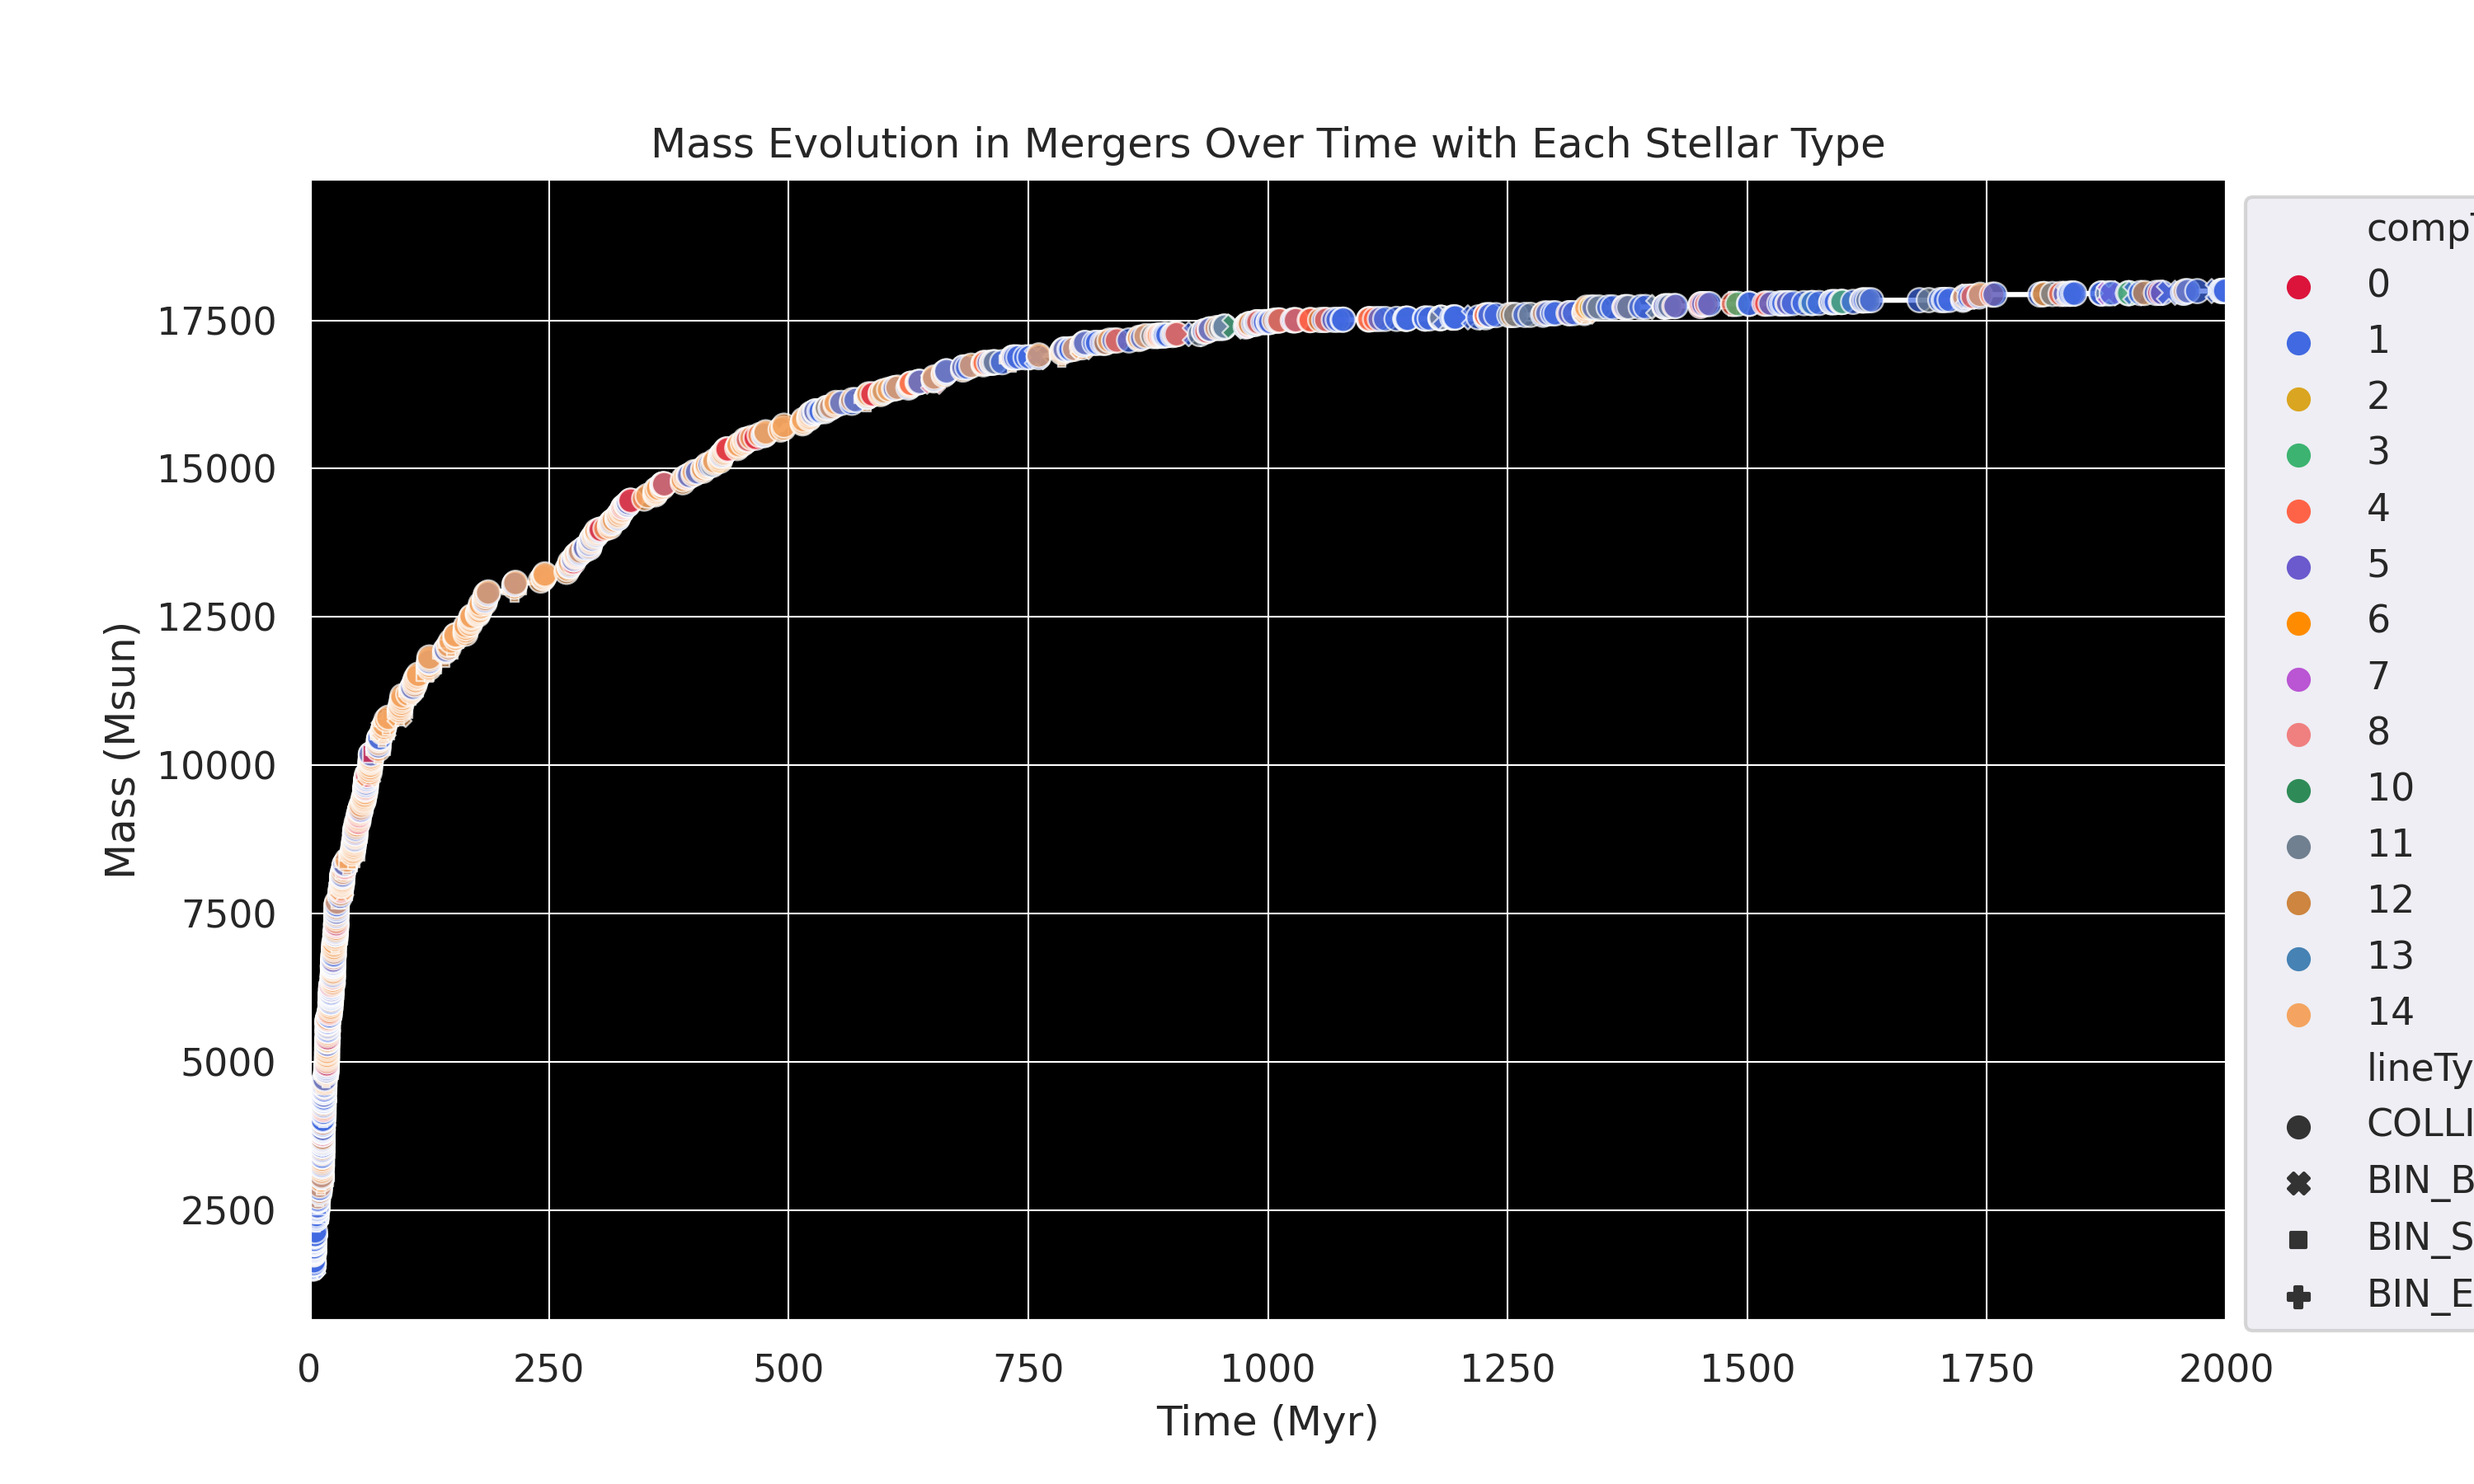
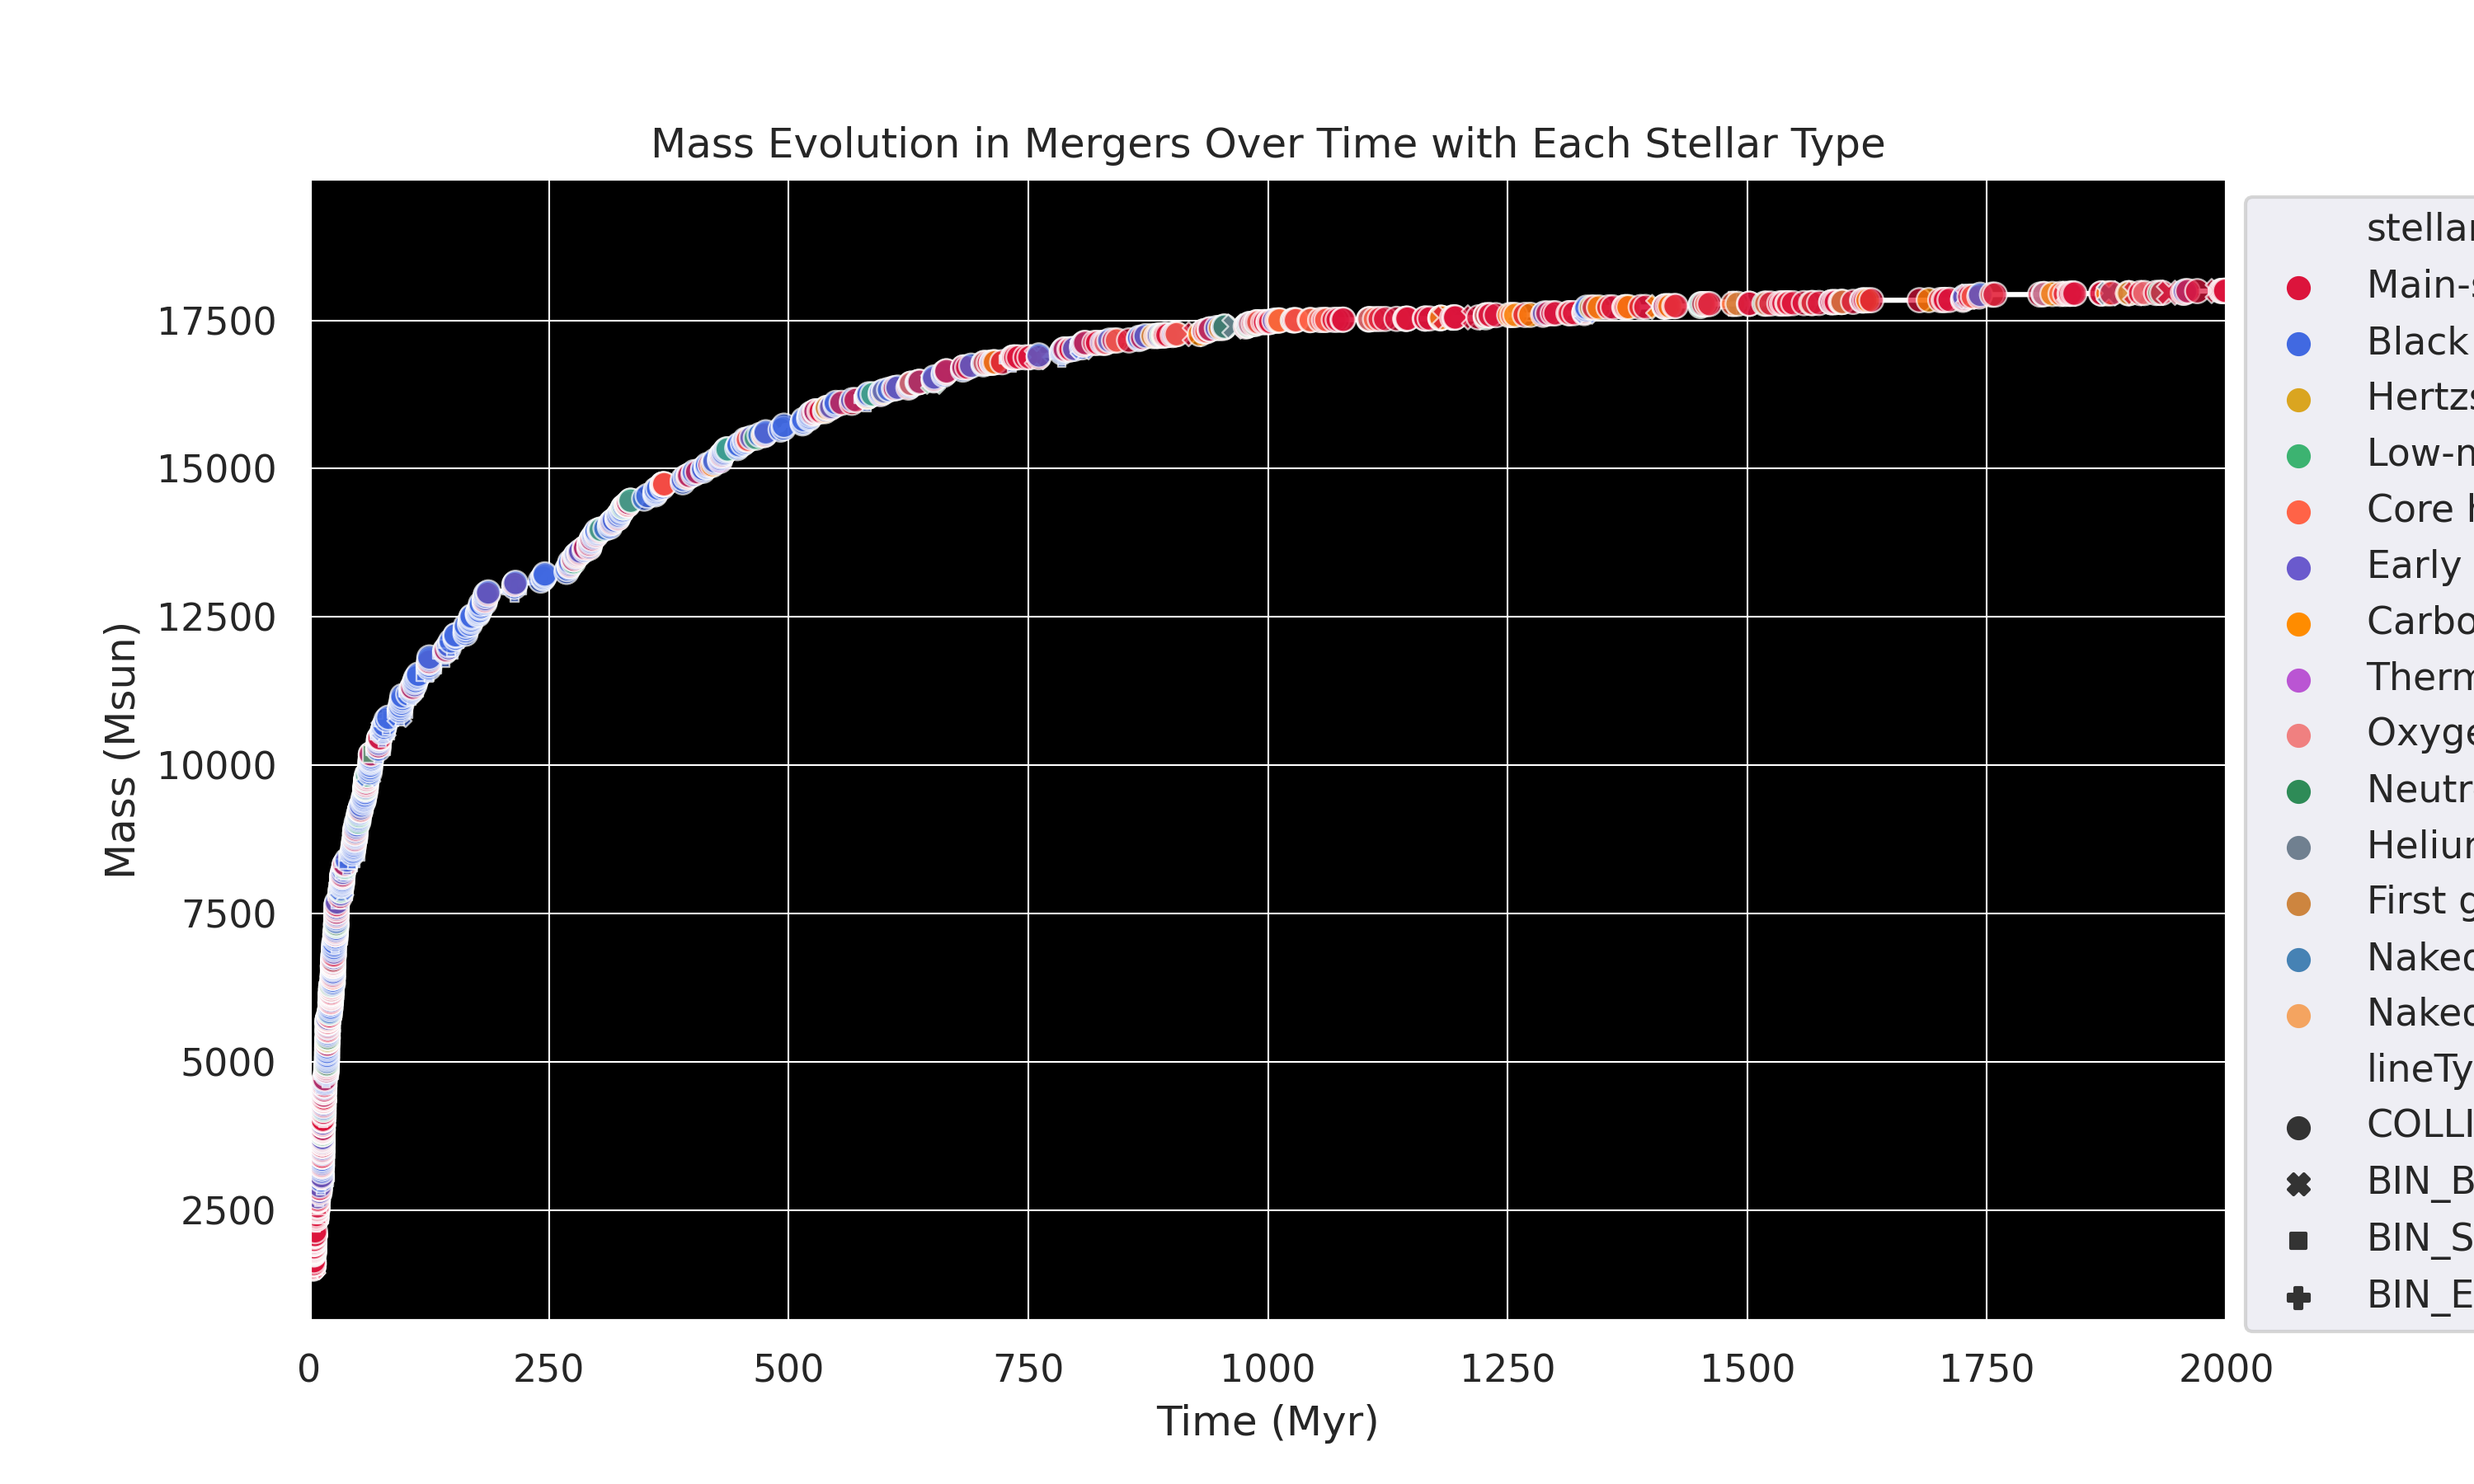
fixed df copy errors
fixed a few more warnings

legend in Figure3 now explicitly shows stellar types from k_value dictionary

diff --git a/functions/history.py b/functions/history.py
@@ -5,9 +5,20 @@ import seaborn as sns
 import numpy as np
 import random
 import os
+import warnings
+import config
+import logging
+
+
+
+logging.getLogger().setLevel(logging.CRITICAL)
+
+
 
 
 def history():
+    
+    
 
     file_path = input("Please enter the path to the history file: ")
     
@@ -311,7 +322,7 @@ def history():
     axs[0, 0].set_ylabel("Frequency")
     axs[0, 0].tick_params(axis='x', rotation=45)
     
-    filtered_df2 = df[df['mergMass1(26)'] > 0.001]
+    filtered_df2 = df[df['mergMass1(26)'] > 0.001].copy()
     save_data(filtered_df2,'mergers.dat')
     
     event_counts_3 = filtered_df2['compType'].value_counts()
@@ -459,8 +470,9 @@ def history():
     plt.savefig('subplots2.png', dpi=300)
     
     fig, axs = plt.subplots(figsize=(10, 6))
-    filtered_df2['MassChange'] = filtered_df2['massNew[Msun]'] - filtered_df2['massOld[Msun](10)']
-    mass_increase_points2 = filtered_df2[filtered_df2['MassChange'] > 0.]
+    filtered_df2.loc[:,'MassChange'] = filtered_df2['massNew[Msun]'] - filtered_df2['massOld[Msun](10)']
+    mass_increase_points2 = filtered_df2[filtered_df2['MassChange'] > 0.].copy()
+    mass_increase_points2['stellar_type'] = mass_increase_points2['compType'].map(config.k_values)
     
     axs.set_facecolor('black')
     
@@ -474,7 +486,9 @@ def history():
     plt.setp(legend.get_texts(), color='white')  
     axs.plot(filtered_df2['time[Myr]'], filtered_df2['massNew[Msun]'], color='w')
     
-    ordered_stellar_types = [0, 1, 2, 3, 4, 5, 6, 7, 8, 9, 10, 11, 12, 13, 14]
+    # Map compType values to corresponding stellar type names
+    filtered_df2.loc[:,'stellar_type'] = filtered_df2['compType'].map(config.k_values)
+
     
     marker_styles = {
         'COLLISION': 'o',  # Circle
@@ -482,10 +496,10 @@ def history():
         'BIN_BIN': 's',    # Square
         'BIN_EVOL': '+'    # Plus
     }
-    unique_stellar_types = filtered_df2['compType'].unique()
+    unique_stellar_types = filtered_df2['stellar_type'].unique()
     
-    
-    
+
+
     color_palette = [
         'crimson',       # #DC143C
         'royalblue',     # #4169E1
@@ -500,23 +514,21 @@ def history():
         'slategray',     # #708090
         'peru',          # #CD853F
         'steelblue',     # #4682B4
-        'sandybrown',     # #F4A460
-        'olivedrab'      # #6B8E23
+        'sandybrown',    # #F4A460
+        #'olivedrab'      # #6B8E23
     ]
     
     
-    
-    
-    color_dict = {stellar_type: color_palette[i] for i, stellar_type in enumerate(ordered_stellar_types)}
-    
+    color_dict = {stellar_type: color_palette[i] for i, stellar_type in enumerate(unique_stellar_types)}
+
     
     sns.scatterplot(data=mass_increase_points2,
                     x='time[Myr]', y='massNew[Msun]',
-                    hue='compType',  
+                    hue='stellar_type',  # Use the new stellar type column for hue
                     style='lineType(1)',  
-                    palette=color_palette,  
-                    s=50,alpha=0.7,zorder=2,legend='full')  
-    
+                    palette=color_palette,  # Pass the sliced palette
+                    s=50, alpha=0.7, zorder=2, legend='full')
+
     
     
     

diff --git a/history.py b/history.py
@@ -5,6 +5,10 @@ import seaborn as sns
 import numpy as np
 import random
 import os
+import warnings
+
+warnings.filterwarnings("ignore", message="No artists with labels found to put in legend")
+warnings.filterwarnings("ignore", message="No artists with labels found to put in legend")
 
 file_path = input("Please enter the path to the history file: ")
 
@@ -69,11 +73,11 @@ axs[0, 0].set_facecolor('black')
 axs[0, 0].grid(True, color='white', linestyle='-', linewidth=0.5) 
 
 
-legend = axs[0, 0].legend(frameon=True)
-legend.get_frame().set_facecolor('gray')  
-legend.get_frame().set_edgecolor('white')  
-plt.setp(legend.get_texts(), color='white')  
+
+
 axs[0, 0].plot(df['time[Myr]'], df['massNew[Msun]'], label='Mass Evolution', color='w')
+
+ 
 
 ordered_event_types = ['BIN_STAR', 'SIN_EVOL', 'COLLISION', 'BIN_FORM', 'BIN_EVOL', 'BIN_BIN']
 
@@ -100,6 +104,10 @@ for event_type in ordered_event_types + additional_event_types:
     axs[0, 0].scatter(event_points['time[Myr]'], event_points['massNew[Msun]'],
                       marker=marker_styles[event_type], label=f'{event_type}', s=5, zorder=5)
 
+legend = axs[0, 0].legend(frameon=True)
+legend.get_frame().set_facecolor('gray')  
+legend.get_frame().set_edgecolor('white')  
+plt.setp(legend.get_texts(), color='white') 
 
 comp_type_14_points = df[(df['starType'] == 14) & (df['compType'] == 14)]
 
@@ -452,7 +460,7 @@ axs[2, 1].set_ylabel("Frequency")
 plt.tight_layout()
 
 fig, axs = plt.subplots(figsize=(10, 6))
-filtered_df2['MassChange'] = filtered_df2['massNew[Msun]'] - filtered_df2['massOld[Msun](10)']
+filtered_df2.loc['MassChange'] = filtered_df2['massNew[Msun]'] - filtered_df2['massOld[Msun](10)']
 mass_increase_points2 = filtered_df2[filtered_df2['MassChange'] > 0.]
 
 axs.set_facecolor('black')
@@ -497,6 +505,8 @@ color_palette = [
     'olivedrab'      # #6B8E23
 ]
 
+unique_categories = len(mass_increase_points2['compType'].unique())
+palette = color_palette("husl", unique_categories)  # Make sure the palette size matches the number of unique categories
 
 
 
@@ -507,7 +517,7 @@ sns.scatterplot(data=mass_increase_points2,
                 x='time[Myr]', y='massNew[Msun]',
                 hue='compType',  
                 style='lineType(1)',  
-                palette=color_palette,  
+                palette=palette,  
                 s=50,alpha=0.7,zorder=2,legend='full')  
 
 
